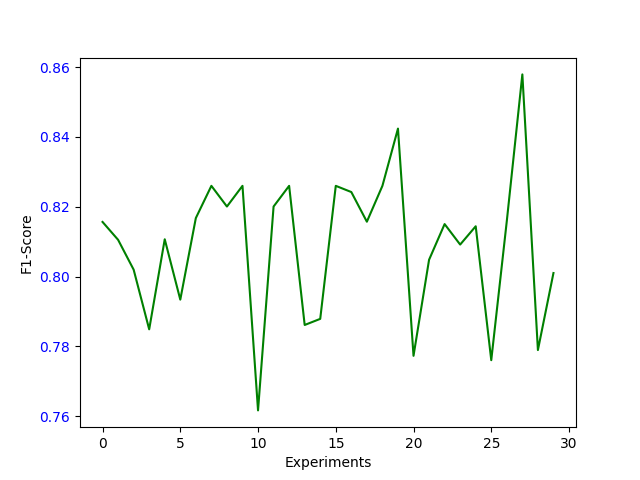
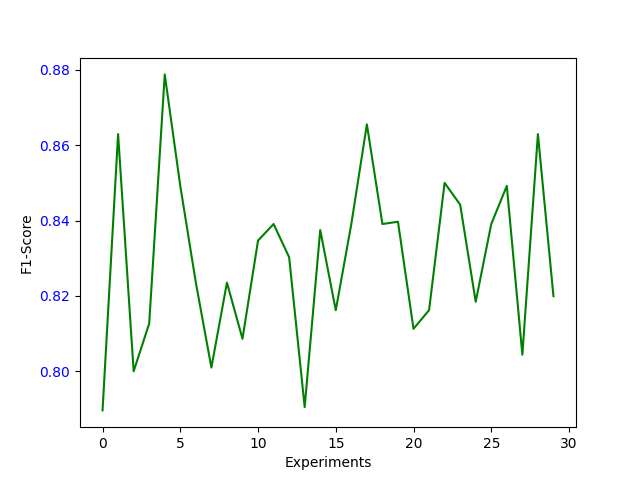
Ionosphere Experiments

diff --git a/run.py b/run.py
@@ -378,8 +378,8 @@ if __name__ == '__main__':
     # dataset_name = 'wine'
     # main(dataset_name)
 
-    # dataset_name = 'ionosphere'
-    # main(dataset_name)
+    dataset_name = 'ionosphere'
+    main(dataset_name)
 
     # dataset_name = 'breast_cancer'
     # main(dataset_name)
